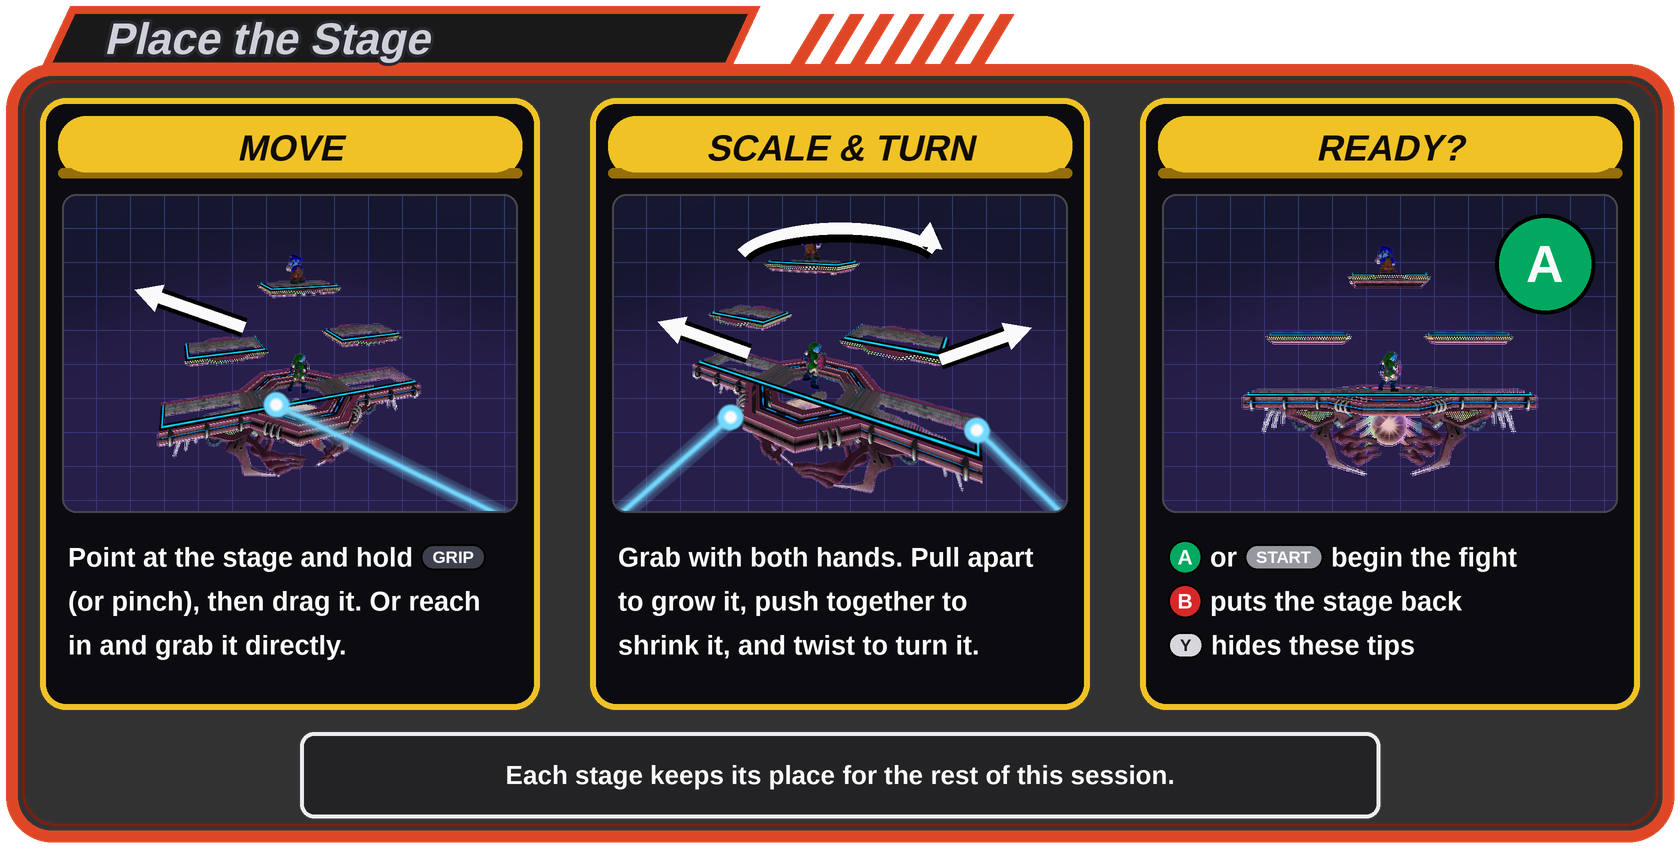
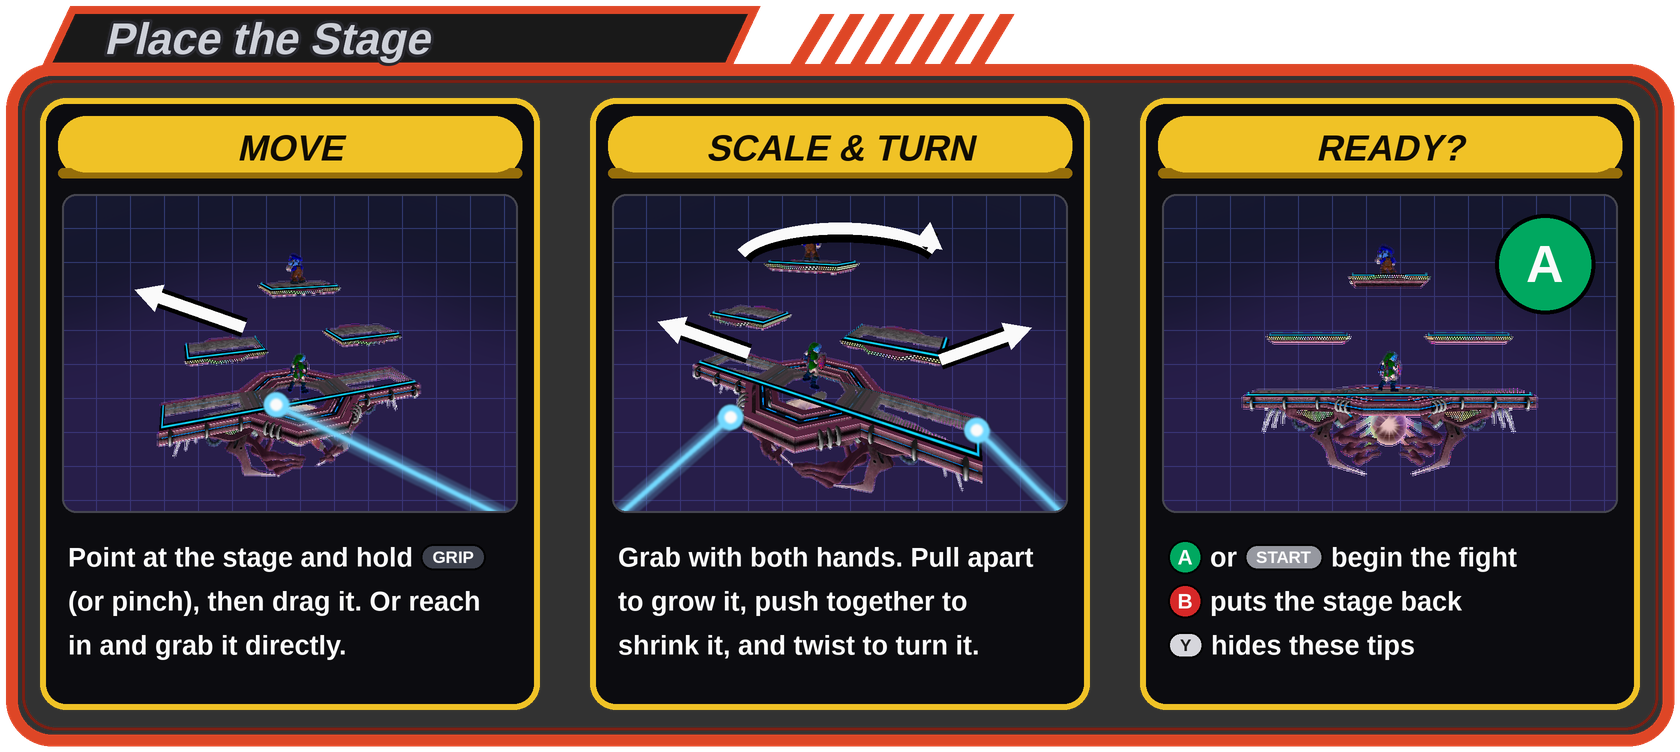
XR: drop the session note from the how-to cards

diff --git a/tools/xr_cards/make_cards.py b/tools/xr_cards/make_cards.py
@@ -239,7 +239,7 @@ def picture_start(w, h):
 
 
 def board():
-    W, H = s(1680), s(848)
+    W, H = s(1680), s(752)
     img = Image.new("RGBA", (W, H), (0, 0, 0, 0))
     d = ImageDraw.Draw(img)
     # Melee's menu frame: a red-orange rounded border round a dark panel,
@@ -278,11 +278,6 @@ def board():
     for i, c in enumerate(cards):
         img.alpha_composite(c, (s(40) + i * (cw + gap), y))
 
-    # Melee's description box: white rim, dark inside.
-    by = y + ch + s(22)
-    d.rounded_rectangle((s(300), by, W - s(300), H - s(30)), radius=s(14), fill=(16, 16, 20, 235), outline=(236, 236, 240), width=s(4))
-    d.text((W // 2, (by + H - s(30)) // 2), "Each stage keeps its place for the rest of this session.",
-           font=font(26), fill=WHITE, anchor="mm")
     return img
 
 
